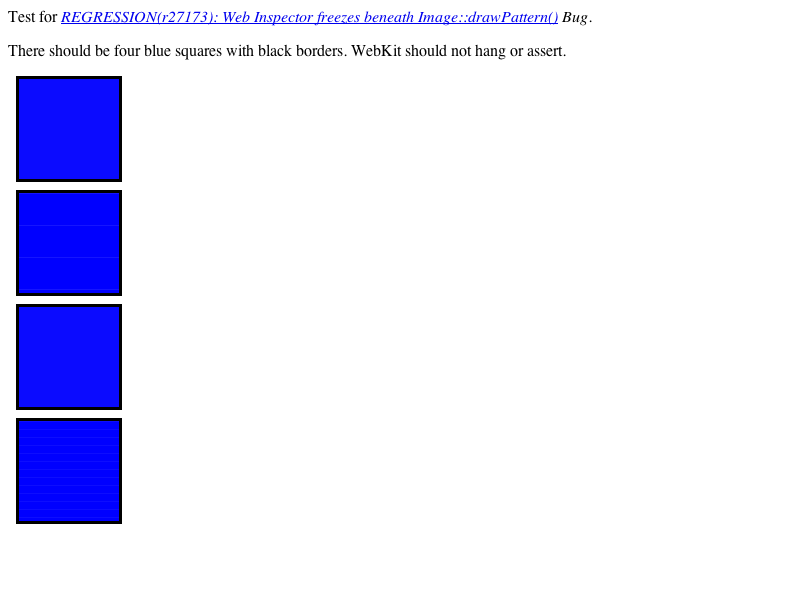
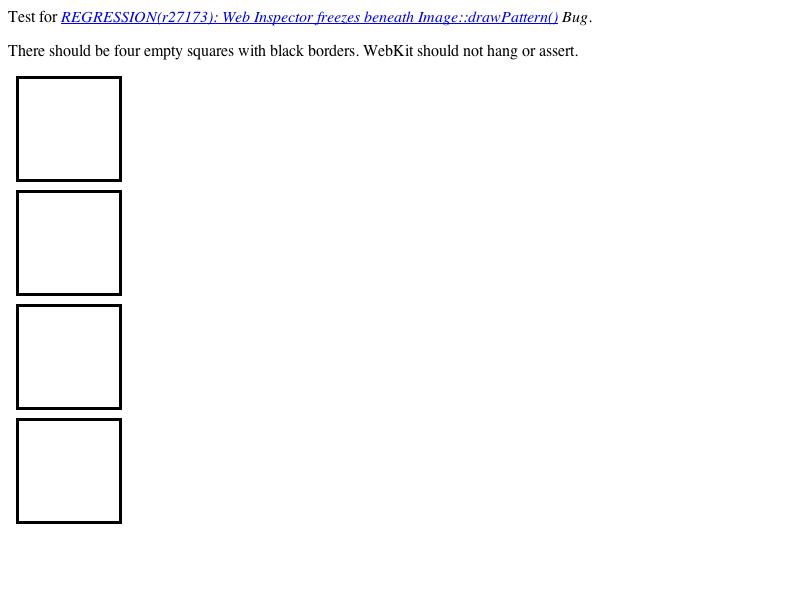
background-size:0 shows as 1px instead of invisible https://bugs.webkit.org/show_bug.cgi?id=86942
Patch by Joe Thomas <joethomas@motorola.com> on 2012-06-26
Reviewed by Eric Seidel.

As per the specification http://www.w3.org/TR/css3-background/#background-size, if the background image's width or height resolves to zero,
this causes the image not to be displayed. The effect should be the same as if it had been a transparent image.
This is also mentioned in http://www.w3.org/TR/2002/WD-css3-background-20020802/#background-size.

Source/WebCore:

Test: fast/backgrounds/zero-background-size.html

* rendering/RenderBoxModelObject.cpp:
(WebCore::RenderBoxModelObject::calculateFillTileSize):

LayoutTests:

* fast/backgrounds/size/zero.html:
* fast/backgrounds/zero-background-size-expected.html: Added.
* fast/backgrounds/zero-background-size.html: Added.
* platform/chromium/TestExpectations:
* platform/efl/TestExpectations:
* platform/gtk/TestExpectations:
* platform/mac/fast/backgrounds/size/zero-expected.png:
* platform/mac/fast/backgrounds/size/zero-expected.txt:
* platform/qt/TestExpectations:

Identifier: 107865@main
git-svn-id: https://svn.webkit.org/repository/webkit/trunk@121296 268f45cc-cd09-0410-ab3c-d52691b4dbfc

Changed region(s): [[0.0, 0.12, 0.1562, 0.87], [0.1875, 0.06, 0.7188, 0.12]]

diff --git a/LayoutTests/fast/backgrounds/zero-background-size.html b/LayoutTests/fast/backgrounds/zero-background-size.html
@@ -1,0 +1,17 @@
+<!DOCTYPE HTML>
+<html>
+<style type="text/css">
+div {
+    width: 200px;
+    height: 200px;
+}
+</style>
+<div style="background: url('./resources/dot.png') center / 0px 50px repeat-x"></div>
+<div style="background: url('./resources/dot.png') center / 50px 0px repeat-x"></div>
+<div style="background: url('./resources/dot.png') center / 0px repeat-x"></div>
+<div style="background: url('./resources/dot.png') center / 0px 0px repeat-x"></div>
+<div style="background: url('./resources/dot.png') center / 0% 50% repeat-x"></div>
+<div style="background: url('./resources/dot.png') center / 50% 0% repeat-x"></div>
+<div style="background: url('./resources/dot.png') center / 0% repeat-x"></div>
+<div style="background: url('./resources/dot.png') center / 0% 0% repeat-x"></div>
+</html>

diff --git a/LayoutTests/fast/backgrounds/size/zero.html b/LayoutTests/fast/backgrounds/size/zero.html
@@ -5,9 +5,9 @@
     Test for <i><a href="http://bugs.webkit.org/show_bug.cgi?id=15750">REGRESSION(r27173): Web Inspector freezes beneath Image::drawPattern()</a> Bug</i>.
 </p>
 <p>
-    There should be four blue squares with black borders. WebKit should not hang or assert.
+    There should be four empty squares with black borders. WebKit should not hang or assert.
 </p>
-<div style="-webkit-background-size: 0 0;"></div>
-<div style="-webkit-background-size: 0 32px;"></div>
-<div style="-webkit-background-size: 2px 0;"></div>
-<div style="-webkit-background-size: auto 8px;"></div>
+<div style="background-size: 0 0;"></div>
+<div style="background-size: 0 32px;"></div>
+<div style="background-size: 2px 0;"></div>
+<div style="background-size: auto 8px;"></div>

diff --git a/LayoutTests/fast/backgrounds/zero-background-size-expected.html b/LayoutTests/fast/backgrounds/zero-background-size-expected.html
@@ -1,0 +1,17 @@
+<!DOCTYPE HTML>
+<html>
+<style type="text/css">
+div {
+    width: 200px;
+    height: 200px;
+}
+</style>
+<div></div>
+<div></div>
+<div></div>
+<div></div>
+<div></div>
+<div></div>
+<div></div>
+<div></div>
+</html>

diff --git a/Source/WebCore/rendering/RenderBoxModelObject.cpp b/Source/WebCore/rendering/RenderBoxModelObject.cpp
@@ -1070,7 +1070,7 @@ IntSize RenderBoxModelObject::calculateFillTileSize(const FillLayer* fillLayer, 
                 h = imageIntrinsicSize.height();
             }
             
-            return IntSize(max(1, w), max(1, h));
+            return IntSize(max(0, w), max(0, h));
         }
         case SizeNone: {
             // If both values are ‘auto’ then the intrinsic width and/or height of the image should be used, if any.
